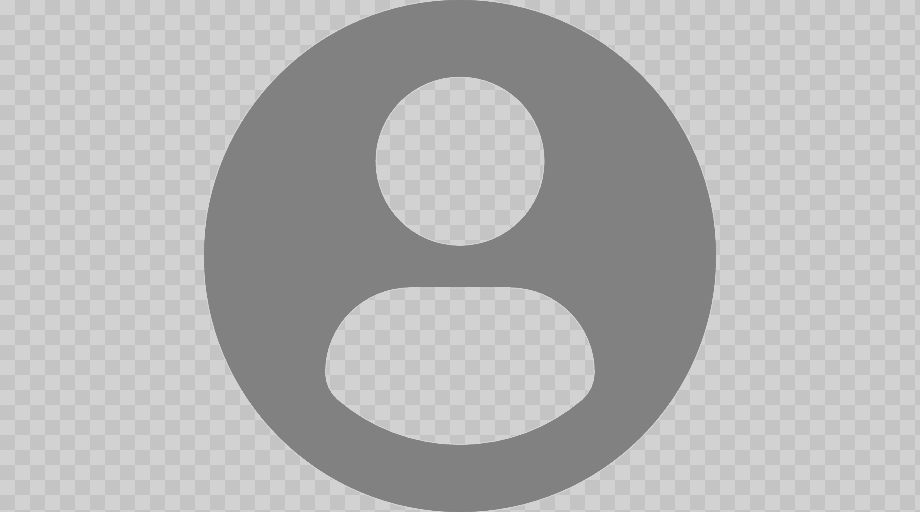
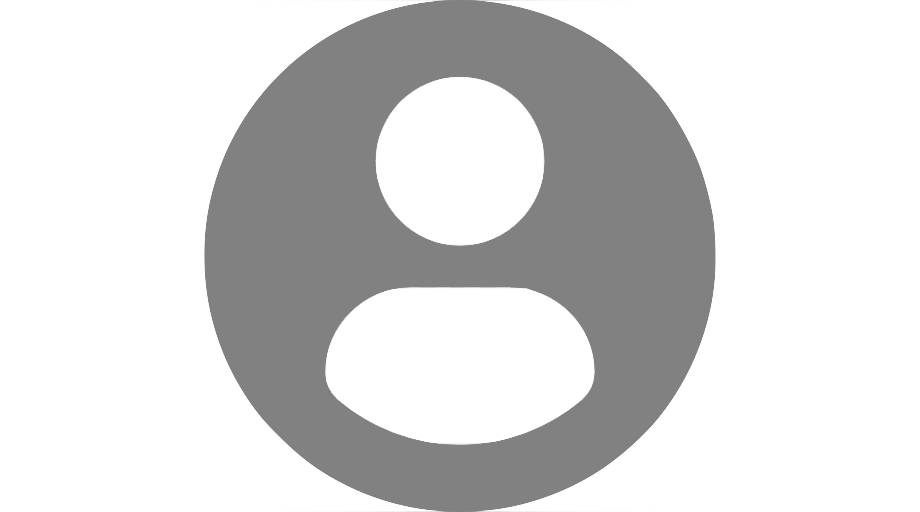
Add profile view and edit

diff --git a/app/assets/stylesheets/profiles.scss b/app/assets/stylesheets/profiles.scss
@@ -1,0 +1,11 @@
+// Place all the styles related to the Profiles controller here.
+// They will automatically be included in application.css.
+// You can use Sass (SCSS) here: https://sass-lang.com/
+.petit-size {
+  width: 12rem;
+}
+
+.medium-size {
+  width: 20rem;
+  // border-radius: 158px;
+}

diff --git a/app/assets/stylesheets/application.scss b/app/assets/stylesheets/application.scss
@@ -14,3 +14,8 @@
  *= require_self
  */
 @import "bootstrap/scss/bootstrap";
+
+.ultra-petit-size {
+  width: 2.5rem;
+  // border-radius: 158px;
+}

diff --git a/app/uploaders/avatar_uploader.rb b/app/uploaders/avatar_uploader.rb
@@ -1,6 +1,6 @@
 # frozen_string_literal: true
 
-class ImageUploader < CarrierWave::Uploader::Base
+class AvatarUploader < CarrierWave::Uploader::Base
   # Include RMagick or MiniMagick support:
   # include CarrierWave::RMagick
   include CarrierWave::MiniMagick
@@ -18,7 +18,7 @@ class ImageUploader < CarrierWave::Uploader::Base
   # Provide a default URL as a default if there hasn't been a file uploaded:
   def default_url(*_args)
     #   # For Rails 3.1+ asset pipeline compatibility:
-    ActionController::Base.helpers.asset_path('default.png')
+    ActionController::Base.helpers.asset_path('perfil_icono.png')
     #
     #   "/images/fallback/" + [version_name, "default.png"].compact.join('_')
   end
@@ -31,11 +31,16 @@ class ImageUploader < CarrierWave::Uploader::Base
   # end
 
   # Create different versions of your uploaded files:
-  version :medium do
-    process resize_to_fill: [850, 850]
-  end
   version :thumb do
     process resize_to_fill: [1000, 1000]
+  end
+
+  version :medium do
+    process resize_to_fill: [300, 300]
+  end
+
+  version :small do
+    process resize_to_fill: [140, 140]
   end
 
   # Add a white list of extensions which are allowed to be uploaded.

diff --git a/app/controllers/accounts/registrations_controller.rb b/app/controllers/accounts/registrations_controller.rb
@@ -2,5 +2,17 @@
 
 module Accounts
   class RegistrationsController < Devise::RegistrationsController
+    before_action :configure_account_update_params, only: [:update]
+
+    def update
+      update_resource(resource, account_update_params)
+      respond_with resource, location: profiles_path(current_account)
+    end
+
+    protected
+
+    def configure_account_update_params
+      devise_parameter_sanitizer.permit(:account_update, keys: %i[name username email password avatar])
+    end
   end
 end

diff --git a/config/routes.rb b/config/routes.rb
@@ -4,6 +4,7 @@ Rails.application.routes.draw do
   root to: 'public#index'
   get '/home', to: 'home#new' 
   
+  resources :profiles
   resources :bookshelves
   namespace :library do
     root to: 'books#index'
@@ -15,6 +16,7 @@ Rails.application.routes.draw do
   end
 
   devise_for :accounts, controllers: {
+    registrations: "accounts/registrations",
     omniauth_callbacks: 'accounts/omniauth_callbacks',
     sessions: 'accounts/sessions'
   }

diff --git a/app/models/account.rb b/app/models/account.rb
@@ -1,6 +1,7 @@
 # frozen_string_literal: true
 
 class Account < ApplicationRecord
+  mount_uploader :avatar, AvatarUploader
   devise :database_authenticatable, :registerable,
          :recoverable, :rememberable, :validatable, :omniauthable,
          omniauth_providers: [:facebook]

diff --git a/app/controllers/profiles_controller.rb b/app/controllers/profiles_controller.rb
@@ -1,0 +1,10 @@
+# frozen_string_literal: true
+
+class ProfilesController < ApplicationController
+  before_action :authenticate_account!
+  before_action :find_account
+
+  def find_account
+    @account = current_account
+  end
+end

diff --git a/app/helpers/application_helper.rb b/app/helpers/application_helper.rb
@@ -1,4 +1,9 @@
 # frozen_string_literal: true
 
 module ApplicationHelper
+  def profile
+    current_account.username || current_account.email
+  end
+
+  def avatar; end
 end

diff --git a/test/controllers/profiles_controller_test.rb b/test/controllers/profiles_controller_test.rb
@@ -1,0 +1,7 @@
+require 'test_helper'
+
+class ProfilesControllerTest < ActionDispatch::IntegrationTest
+  # test "the truth" do
+  #   assert true
+  # end
+end

diff --git a/app/helpers/profiles_helper.rb b/app/helpers/profiles_helper.rb
@@ -1,0 +1,2 @@
+module ProfilesHelper
+end
